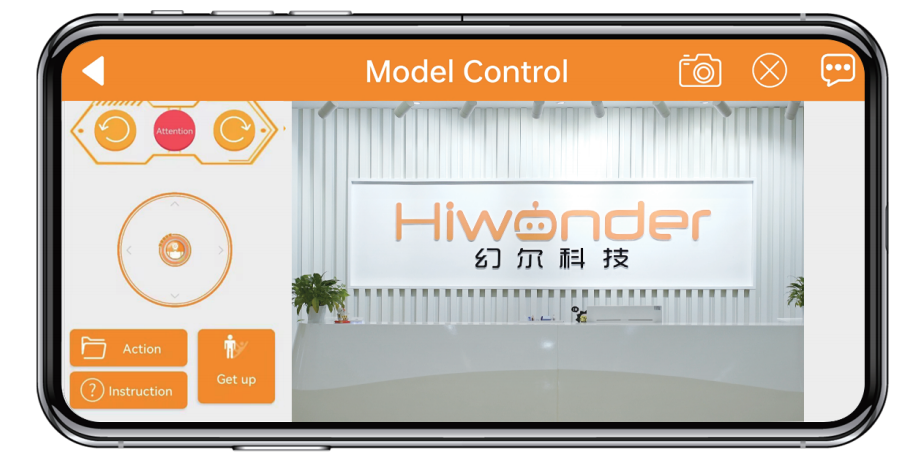
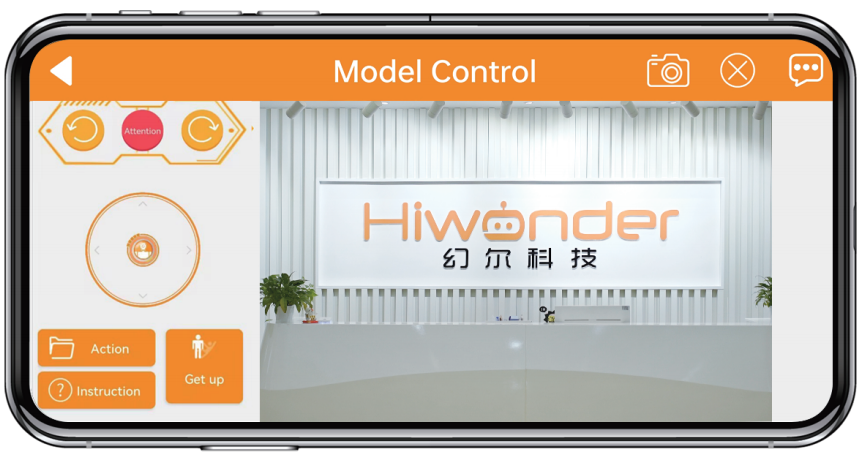
en TonyPi 3 commit

diff --git a/source/docs/11.voice_interaction_and_intelligent_handling_course.md b/source/docs/11.voice_interaction_and_intelligent_handling_course.md
@@ -77,7 +77,7 @@ Place the robot and sponge blocks of red, green, and blue colors randomly within
 <table class="docutils-nobg" border="1">
 <tbody>
 <tr>
-<td style="text-align: center;"></td>
+<td style="text-align: center;">/</td>
 <td style="text-align: center;"><strong>Voice control transport</strong></td>
 <td style="text-align: center;"><strong>Intelligent transport</strong></td>
 </tr>
@@ -538,8 +538,6 @@ def getTurn(tag_id, tag_data):
             return 'right'
 ```
 
-
-
 **(5) put down object**
 
 After completing the transportation, put down the object as pictured:
@@ -595,7 +593,7 @@ Instructions must be entered with strict attention to case sensitivity and spaci
 cd TonyPi/Functions/
 ```
 
-(3) Input command "python3 Follow.py", then press Enter to start the game.
+(3) Input command, then press Enter to start the game.
 
 ```bash
 python3 Follow.py
@@ -808,19 +806,21 @@ def move():
             time.sleep(0.01)
 ```
 
+<p id="anchor_7_2_5"></p>
+
 ### 7.2.5 Function Extension
 
 * **Modify Default Recognition Color** 
 
-Blue, red and green are the built-in colors in the motion tracking program and red is the default color. In the following steps, we’re going to modify the tracking color as green.
+Blue, red and green are the built-in colors in the motion tracking program and red is the default color. In the following steps, we're going to modify the tracking color as green.
 
-(1) Enter command "cd TonyPi/Functions/" to the directory where the game program is located.
+(1) Enter command to the directory where the game program is located.
 
 ```bash
 cd TonyPi/Functions/
 ```
 
-(2) Enter command "vim Follow.py" to go into the game program through vi editor.
+(2) Enter command to go into the game program through vi editor.
 
 ```bash
 vim Follow.py
@@ -834,7 +834,7 @@ vim Follow.py
 After entering the code position number on the keyboard, press "Shift+G" to directly locate to the corresponding location. This section aims to introduce quick location methods, so the code position number is for reference only. Please rely on actual positions.
 :::
 
-(4) Press "**i**" to enter the editing mode, then modify red in "_target_color = (‘red’)" to green.
+(4) Press "**i**" to enter the editing mode, then modify red in "_target_color = ('red')" to green.
 
 <img class="common_img"  src="../_static/media/11.intelligent_transport/5.1/image8.png"  />
 
@@ -874,7 +874,7 @@ until the blue part of the left screen becomes white and other colors become bla
 
 <img class="common_img"  src="../_static/media/11.intelligent_transport/5.1/image14.png"   />
 
-For the game’s performance, it’s recommended to use the LAB_Tool tool to modify the value back to the initial value after the modification is completed.
+For the game's performance, it's recommended to use the LAB_Tool tool to modify the value back to the initial value after the modification is completed.
 
 (5) After the modification is completed, check whether the modified data was successfully written in. Enter the command again "vim TonyPi/lab_config.yaml" to check the color setting parameters.
 
@@ -890,4 +890,4 @@ vim lab_config.yaml
 :wq
 ```
 
-(7) The default tracking color can be set as black according to the "[7.2.5 Function Extension -> Modify Default Tracking Color]()" in this text.
+(7) The default tracking color can be set as black according to the "[7.2.5 Function Extension -> Modify Default Recognition Color](#anchor_7_2_5)" in this text.

diff --git a/source/docs/1.getting_ready.md b/source/docs/1.getting_ready.md
@@ -92,15 +92,15 @@ Furthermore, unless explicitly stated by Hiwonder, we are not responsible for an
     </tr>
     <tr>
       <td>7</td>
-      <td>Accessory Bag(M2*4 Round head screw * 5<br/>M2*6 round head screw * 5<br/>M3*6 Black round head screw * 2<br/>M2*5 Round head self-tapping screw * 5<br/>M2*6 Round head self-tapping screw * 5<br/>A3*5*7 Round head cross-recessed washer-equipped self-tapping screw * 2<br/>M2 nut * 5<br/>10cm 3pin wire * 1<br/>20cm 3pin wire * 1<br/>Main plastic steering wheel * 2<br/>Auxiliary plastic steering wheel * 2)</td>
+      <td>Accessory Bag <br> (M2*4 Round head screw * 5<br/>M2*6 round head screw * 5<br/>M3*6 Black round head screw * 2<br/>M2*5 Round head self-tapping screw * 5<br/>M2*6 Round head self-tapping screw * 5<br/>A3*5*7 Round head cross-recessed washer-equipped self-tapping screw * 2<br/>M2 nut * 5<br/>10cm 3pin wire * 1<br/>20cm 3pin wire * 1<br/>Main plastic steering wheel * 2<br/>Auxiliary plastic steering wheel * 2)</td>
       <td>1</td>
-      <td><img src="../_static/media/1.getting_ready/1.1/image7.png" style="width:280px;"/></td>
+      <td><img src="../_static/media/1.getting_ready/1.1/image7.png" style="width:270px;"/></td>
     </tr>
     <tr>
       <td>8</td>
       <td>User Manual</td>
       <td>1</td>
-      <td><img src="../_static/media/1.getting_ready/1.1/image10.png" style="width:280px;"/></td>
+      <td><img src="../_static/media/1.getting_ready/1.1/image10.png" style="width:270px;"/></td>
     </tr>
   </tbody>
 </table>
@@ -163,23 +163,22 @@ Furthermore, unless explicitly stated by Hiwonder, we are not responsible for an
       <td>8</td>
       <td>Map</td>
       <td>1</td>
-      <td><img src="../_static/media/1.getting_ready/1.1/image9.png" style="width:280px;"/></td>
+      <td><img src="../_static/media/1.getting_ready/1.1/image9.png" style="width:270px;"/></td>
     </tr>
     <tr>
       <td>9</td>
       <td>Accessory Bag(M2*4 Round head screw * 5<br/>M2*6 round head screw * 5<br/>M3*6 Black round head screw * 2<br/>M2*5 Round head self-tapping screw * 5<br/>M2*6 Round head self-tapping screw * 5<br/>A3*5*7 Round head cross-recessed washer-equipped self-tapping screw * 2<br/>M2 nut * 5<br/>10cm 3pin wire * 1<br/>20cm 3pin wire * 1<br/>Main plastic steering wheel * 2<br/>Auxiliary plastic steering wheel * 2)</td>
       <td>1</td>
-      <td><img src="../_static/media/1.getting_ready/1.1/image7.png" style="width:280px;"/></td>
+      <td><img src="../_static/media/1.getting_ready/1.1/image7.png" style="width:270px;"/></td>
     </tr>
     <tr>
       <td>8</td>
       <td>User Manual</td>
       <td>1</td>
-      <td><img src="../_static/media/1.getting_ready/1.1/image10.png" style="width:280px;"/></td>
+      <td><img src="../_static/media/1.getting_ready/1.1/image10.png" style="width:270px;"/></td>
     </tr>
   </tbody>
 </table>
-
 
 ## 1.3 Charging and Power-On Status Description
 

diff --git a/source/docs/2.quick_user_experience.md b/source/docs/2.quick_user_experience.md
@@ -108,11 +108,11 @@ For detailed introduction to robot games, please refer to the file in "**[2.2 AP
 
 (5) Tap **"Go to connect device hotspot"**.
 
-<img src="../_static/media/2.quick_user_experience/1.1/image15.jpeg"   />
+<img src="../_static/media/2.quick_user_experience/1.1/image15.jpg"   />
 
 (6) Join the WiFi starting with **"HW".** The password is **"hiwonder"**. After connection, return back to APP.
 
-<p class="common_img">
+<p class="common_img" style="text-align:center;">
 
 <img src="../_static/media/2.quick_user_experience/1.1/image6.jpeg" style="width:300px"  />
 
@@ -168,7 +168,7 @@ Click the robot icon to enter to the game selection interface.
 
 (1) Click on the icon "Model Control" and you will enter the corresponding interface. At the same time, the robot will immediately return to its initial position.
 
-<img class="common_img" src="../_static/media/2.quick_user_experience/2.1/image3.png"   />
+<img class="common_img" src="../_static/media/2.quick_user_experience/2.1/image3.png"  width="100%" />
 
 (2) The interface of "Model Control" is divided into two parts. The left side of the interface allows you to control the robot's movement by sliding the joystick. Other function icons can be referred to in the table below:
 

diff --git a/source/docs/8.ai_vision_games_lesson.md b/source/docs/8.ai_vision_games_lesson.md
@@ -2906,7 +2906,7 @@ In the following sample, we will add the ID4 as new tag. When the tag is recogni
 
 (1)  Take the reference of "[4.8.5 Function Extension -> Modify the Action Corresponding to the Tag](#anchor_4_8_5)", enter the catalog and open the program file.
 
-<img class="common_img" src="../_static/media/8.ai_vision_games_lesson/8.1/image11.png"  />
+<img class="common_img" src="../_static/media/8.ai_vision_games_lesson/8.1/image11.png" width="100%" />
 
 (2)  Next, you need to copy the code inside the "**elif**" branch. Here, we can copy the code shown in the image. Move the mouse cursor to the corresponding "**elif**" line, then type "**5yy**" on the keyboard (to copy 5 lines). You will see a prompt "5 lines yanked" at the bottom, indicating successful copying.
 

diff --git a/source/docs/9.upper_computer_action_editing_course.md b/source/docs/9.upper_computer_action_editing_course.md
@@ -343,7 +343,7 @@ python3 ActionGroupControlDemo.py
 
 **The following operations are based on "[Call a Single Action](#anchor_6_3_1)".**
 
-The robot can be controlled to execute multiple action groups sequentially by copying and pasting codes. In this section, let’s call the "go" and "move_up" action groups. Here are the specific steps:
+The robot can be controlled to execute multiple action groups sequentially by copying and pasting codes. In this section, let's call the "go" and "move_up" action groups. Here are the specific steps:
 
 (1) Follow steps 1-3 in "[**Call a Single Action**](#anchor_6_3_1)"  to open the program file.Do not enter editing mode. Otherwise, the copy process will fail. If the current program is in the editing mode, press the "Esc".
 
